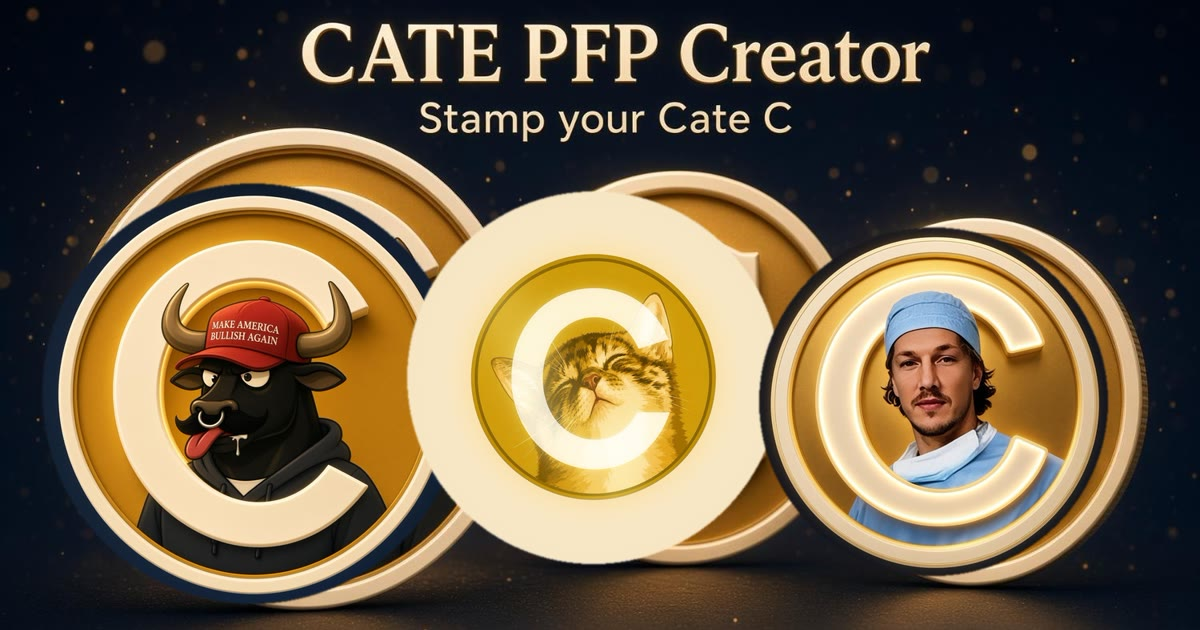
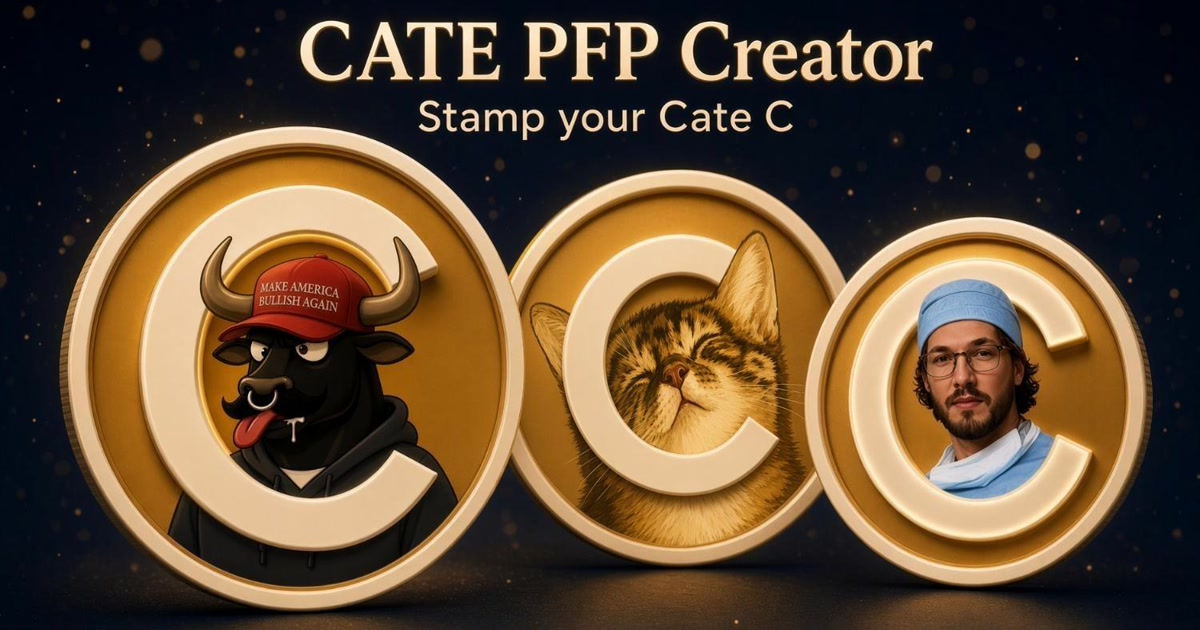
OG card from 3-coin cover; default Cate fills gold disc

diff --git a/src/routes/__root.tsx b/src/routes/__root.tsx
@@ -21,7 +21,7 @@ export const Route = createRootRoute({
     links: [
       { rel: "icon", type: "image/svg+xml", href: "/favicon.svg" },
       { rel: "stylesheet", href: appCss },
-      { rel: "preload", as: "image", href: "/samples/tabby.jpg?v=14" },
+      { rel: "preload", as: "image", href: "/samples/tabby.jpg?v=20" },
       { rel: "manifest", href: "/__grok/manifest.webmanifest" },
       { rel: "apple-touch-icon", href: "/__grok/icon-180.png" },
       {

diff --git a/src/lib/compose.ts b/src/lib/compose.ts
@@ -398,7 +398,7 @@ export async function exportCatePfp(opt: ComposeOptions): Promise<Blob> {
 }
 
 export const SAMPLES = [
-  { id: "tabby", src: "/samples/tabby.jpg?v=14", label: "Cate" },
+  { id: "tabby", src: "/samples/tabby.jpg?v=20", label: "Cate" },
   { id: "poorgoat", src: "/samples/poorgoat.jpg?v=3", label: "@PoorGoat_" },
   { id: "criptow", src: "/samples/criptow.jpg?v=14", label: "@criptow_" },
 ] as const;

diff --git a/src/lib/studio-store.ts b/src/lib/studio-store.ts
@@ -47,8 +47,8 @@ const defaultOverlays: OverlayFlags = {
 
 const VIEW_DEFAULTS = {
   offsetX: 0,
-  offsetY: 0.05,
-  scale: 1.2,
+  offsetY: 0.04,
+  scale: 1.32,
   rotation: 0,
   goldWash: 0.08,
   cOpacity: 1,
